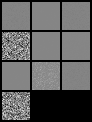
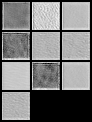
Update .gitignore to include 3dd.pt; add FID score calculation and noise processing improvements in utils.py; add new experiment JSON files

diff --git a/src/tridd_models.py b/src/tridd_models.py
@@ -41,19 +41,37 @@ class TriDD(nn.Module):
         self.label_proj = nn.Linear(self.hidden_dim, self.proj)
         
         # --- Residual Block 1 ---
-        # 輸入: (B, 8, 1, 28, 28)  →  經過此 block 輸出: (B, 64, 1, 28, 28)
-        self.conv1 = nn.Conv3d(self.proj, 16, kernel_size=(1,1,1), bias=False)
-        self.conv2 = nn.Conv3d(16, 64, kernel_size=(1,1,1), bias=False)
+        # 輸入: (B, 8, 1, 28, 28)  →  輸出: (B, 64, 1, 28, 28)
+        self.conv1 = nn.Conv3d(self.proj, 16, kernel_size=(3,3,3), bias=False, padding=1)
+        self.conv2 = nn.Conv3d(16, 64, kernel_size=(3,3,3), bias=False, padding=1)
         # shortcut: 將輸入從 8 通道轉成 64 通道
-        self.shortcut1 = nn.Conv3d(self.proj, 64, kernel_size=(1,1,1), bias=False)
+        self.shortcut1 = nn.Conv3d(self.proj, 64, kernel_size=(3,3,3), bias=False, padding=1)
         
         # --- Residual Block 2 ---
-        # 輸入: (B, 64, 1, 28, 28) → 經過此 block 輸出: (B, 8, 1, 28, 28)
-        self.conv3 = nn.Conv3d(64, 32, kernel_size=(1,1,1), bias=False)
-        self.conv4 = nn.Conv3d(32, 8, kernel_size=(1,1,1), bias=False)
+        # 輸入: (B, 64, 1, 28, 28) → 輸出: (B, 8, 1, 28, 28)
+        self.conv3 = nn.Conv3d(64, 32, kernel_size=(3,3,3), bias=False, padding=1)
+        self.conv4 = nn.Conv3d(32, 8, kernel_size=(3,3,3), bias=False, padding=1)
         # shortcut: 將輸入從 64 通道轉成 8 通道
-        self.shortcut2 = nn.Conv3d(64, 8, kernel_size=(1,1,1), bias=False)
+        self.shortcut2 = nn.Conv3d(64, 8, kernel_size=(3,3,3), bias=False, padding=1)
         
+        # --- Residual Block 3 (新增) ---
+        # 輸入與輸出皆為 (B, 8, 1, 28, 28)
+        self.conv6 = nn.Conv3d(8, 16, kernel_size=(3,3,3), bias=False, padding=1)
+        self.conv7 = nn.Conv3d(16, 8, kernel_size=(3,3,3), bias=False, padding=1)
+        self.shortcut3 = nn.Identity()  # 輸入與輸出通道相同，直接用 Identity
+        
+        # --- Residual Block 4 (新增) ---
+        # 同樣保持輸入與輸出皆為 (B, 8, 1, 28, 28)
+        self.conv8 = nn.Conv3d(8, 16, kernel_size=(3,3,3), bias=False, padding=1)
+        self.conv9 = nn.Conv3d(16, 8, kernel_size=(3,3,3), bias=False, padding=1)
+        self.shortcut4 = nn.Identity()
+        
+        # --- Residual Block 5 (新增) ---
+        # 同樣保持輸入與輸出皆為 (B, 8, 1, 28, 28)
+        self.conv10 = nn.Conv3d(8, 16, kernel_size=(3,3,3), bias=False, padding=1)
+        self.conv11 = nn.Conv3d(16, 8, kernel_size=(3,3,3), bias=False, padding=1)
+        self.shortcut5 = nn.Identity()
+
         # --- 最後一層卷積 ---
         # 將通道從 8 轉為 1，輸出最終影像 (B, 1, 1, 28, 28)
         self.conv5 = nn.Conv3d(8, 1, kernel_size=(1,1,1), bias=False)
@@ -61,12 +79,20 @@ class TriDD(nn.Module):
     def forward(self, noise, label):
         """
         noise: Tensor, shape (B, 1, 28, 28)
-        label: Tensor, shape (B, label_dim)
+        label: Tensor, shape (B,) 或 (B, ) 代表標籤索引
         """
         # 1. 由 label 產生條件特徵
-        label = F.one_hot(label, num_classes=self.label_dim)  # (B, label_dim)
-        label_emb_feature = self.label_emb(label)              # (B, label_dim, hidden_dim)
-        label_emb_feature = self.label_comp(label_emb_feature).squeeze(1)  # (B, hidden_dim)
+        # 注意：若 label 為索引，請直接傳入 Embedding 層，不需 one_hot
+        # 若原本 label 為 one_hot 可先轉換為索引再使用
+        label = label.long()  # 確保是整數型態
+        label_emb_feature = self.label_emb(label)              # (B, hidden_dim)
+        # 將 one_hot 轉換成與 Conv1d 相容的 shape：先轉換成 (B, label_dim) 再展開
+        # 為此，我們先取得 one_hot 表示，再用 conv1d 處理（這裡假設需要該步驟）
+        label_onehot = F.one_hot(label, num_classes=self.label_dim).float()  # (B, label_dim)
+        # 將 one_hot 維度調整為 (B, label_dim, 1)
+        label_onehot = label_onehot.unsqueeze(-1)
+        label_comp_feature = self.label_comp(label_onehot).squeeze(1)  # (B, 1)
+        # 這裡可以將 Embedding 與 label_comp_feature 作結合，或僅使用 Embedding
         label_feature = self.label_mlp(label_emb_feature)        # (B, hidden_dim)
         
         # 2. 透過線性層得到投射向量 (B, proj)
@@ -79,21 +105,37 @@ class TriDD(nn.Module):
         noise_projected = noise_expanded * proj_vector           # (B, proj, 1, 28, 28)，proj=8
         
         # --- Residual Block 1 ---
-        # 主路徑：先後經過 conv1 與 conv2
         x = noise_projected                                    # (B, 8, 1, 28, 28)
-        residual = self.shortcut1(x)                           # (B, 64, 1, 28, 28)
+        residual1 = self.shortcut1(x)                          # (B, 64, 1, 28, 28)
         out = F.relu(self.conv1(x))                            # (B, 16, 1, 28, 28)
         out = self.conv2(out)                                  # (B, 64, 1, 28, 28)
-        out = F.relu(out + residual)                           # Residual connection
+        out = F.relu(out + residual1)                          # (B, 64, 1, 28, 28)
         temp_out = out[:, -1, :, :, :]                         # (B, 1, 28, 28)
         
         # --- Residual Block 2 ---
-        # 主路徑：經過 conv3 與 conv4
-        residual = self.shortcut2(out)                         # (B, 8, 1, 28, 28)
+        residual2 = self.shortcut2(out)                        # (B, 8, 1, 28, 28)
         out_block2 = F.relu(self.conv3(out))                   # (B, 32, 1, 28, 28)
         out_block2 = self.conv4(out_block2)                    # (B, 8, 1, 28, 28)
-        out = F.relu(out_block2 + residual)                    # Residual connection
+        out = F.relu(out_block2 + residual2)                   # (B, 8, 1, 28, 28)
         
+        # --- Residual Block 3 (新增) ---
+        residual3 = self.shortcut3(out)                        # (B, 8, 1, 28, 28)
+        out_block3 = F.relu(self.conv6(out))                   # (B, 16, 1, 28, 28)
+        out_block3 = self.conv7(out_block3)                    # (B, 8, 1, 28, 28)
+        out = F.relu(out_block3 + residual3)                   # (B, 8, 1, 28, 28)
+        
+        # --- Residual Block 4 (新增) ---
+        residual4 = self.shortcut4(out)                        # (B, 8, 1, 28, 28)
+        out_block4 = F.relu(self.conv8(out))                   # (B, 16, 1, 28, 28)
+        out_block4 = self.conv9(out_block4)                    # (B, 8, 1, 28, 28)
+        out = F.relu(out_block4 + residual4)                   # (B, 8, 1, 28, 28)
+        
+        # --- Residual Block 5 (新增) ---
+        residual5 = self.shortcut5(out)                        # (B, 8, 1, 28, 28)
+        out_block5 = F.relu(self.conv10(out))                  # (B, 16, 1, 28, 28)
+        out_block5 = self.conv11(out_block5)                   # (B, 8, 1, 28, 28)
+        out = F.relu(out_block5 + residual5)                  # (B, 8, 1, 28, 28)
+
         # --- 最後一層卷積 ---
         out = self.conv5(out)                                  # (B, 1, 1, 28, 28)
         out = out.squeeze(1)                                   # 調整形狀為 (B, 1, 28, 28)

diff --git a/src/main.py b/src/main.py
@@ -7,7 +7,7 @@ import numpy as np
 
 from tqdm import tqdm
 from torchvision.utils import save_image, make_grid
-from torch.optim import Adam
+from torch.optim import Adam, AdamW
 from datetime import datetime
 
 import math
@@ -19,7 +19,7 @@ from torch.utils.data import DataLoader
 from models import SinusoidalPosEmb, ConvBlock, Denoiser, Diffusion
 from timm.models.ghostnet import ghostnet_050
 from tridd_models import TriDD
-from utils import add_noise_process
+from utils import add_noise_process,fid_score_torch
 
 # Model Hyperparameters
 
@@ -31,14 +31,15 @@ DEVICE = torch.device("cuda:0" if cuda else "cpu")
 dataset = 'MNIST'
 img_size = (32, 32, 3)   if dataset == "CIFAR10" else (28, 28, 1) # (width, height, channels)
 
-train_batch_size = 128
-inference_batch_size = 64
+train_batch_size = 4096
+inference_batch_size = 1024
 test_batch_size = 10
-lr = 5e-5
-epochs = 5
+lr = 5e-4
+epochs = 25
+gt_weight = 1.1
 
 label_dim = 10
-triddm_proj = 10
+triddm_proj = 32
 classes = 10
 
 seed = 1234
@@ -74,7 +75,9 @@ model = TriDD(
     proj=triddm_proj,
 ).to(DEVICE)
 
-optimizer = Adam(model.parameters(), lr=lr)
+# optimizer = Adam(model.parameters(), lr=lr)
+# optimizer = Adam(model.parameters(), lr=lr, betas=(0.9, 0.999), eps=1e-08, weight_decay=0.01)
+optimizer = AdamW(model.parameters(), lr=lr, betas=(0.9, 0.999), eps=1e-08, weight_decay=0.01)
 label_sim_loss = nn.CrossEntropyLoss()
 denoising_loss = nn.MSELoss()
 
@@ -89,21 +92,40 @@ model.train()
 
 rec_loss = []
 rec_acc = []
+noise_img = {
+    "t1000": [],
+    "t500": [],
+    "t0": [],
+    "out": [],
+}
+add_cnt = []
 for epoch in range(epochs):
     noise_prediction_loss = 0
     acc = 0
+    test_noise_prediction_loss = 0
+    test_acc = 0
+
+    # train
+    model.train()
     for batch_idx, (x, y) in tqdm(enumerate(train_loader), total=len(train_loader)):
         optimizer.zero_grad()
 
         y = y.to(DEVICE)
         noise_stack = add_noise_process(x)
+        if epoch not in add_cnt:
+            noise_img["t1000"].append(noise_stack[0, 0])
+            noise_img["t500"].append(noise_stack[0, 1])
+            noise_img["t0"].append(noise_stack[0, 2])
         noise = noise_stack[:, 0].to(DEVICE)# t=1000
         noise_hid = noise_stack[:, 1].to(DEVICE)# t=500
         original = noise_stack[:, 2].to(DEVICE)# t=0
         out_hid, out = model(noise, y)# generated image
-
+        if epoch not in add_cnt:
+            # print(f"Save epoch {epoch} noise images")
+            noise_img["out"].append(out[0])
+            add_cnt.append(epoch)
         # denoising loss
-        deno_loss = denoising_loss(out_hid, noise_hid) + denoising_loss(out, original)
+        deno_loss = denoising_loss(out_hid, noise_hid) + gt_weight * denoising_loss(out, original)
 
         # discriminator loss
         pred = discriminator(out)
@@ -120,9 +142,34 @@ for epoch in range(epochs):
         acc += (pred == y).sum().item()
         batch_size = x.size(0)
         acc /= batch_size
+
     rec_acc.append(acc)
     rec_loss.append(noise_prediction_loss / batch_idx)
     print(f"Epoch {epoch+1}/{epochs} complete! Denoising Loss: {noise_prediction_loss / batch_idx:.4f}, Accuracy: {acc:.4f}")
+
+    # test
+    model.eval()
+    for batch_idx, (x, y) in tqdm(enumerate(test_loader), total=len(test_loader)):
+        y = y.to(DEVICE)
+        noise_stack = add_noise_process(x)
+        noise = noise_stack[:, 0].to(DEVICE)
+        noise_hid = noise_stack[:, 1].to(DEVICE)
+        original = noise_stack[:, 2].to(DEVICE)
+        out_hid, out = model(noise, y)
+        # denoising loss
+        deno_loss = denoising_loss(out_hid, noise_hid) + gt_weight * denoising_loss(out, original)
+        # discriminator loss
+        pred = discriminator(out)
+        label_loss = label_sim_loss(pred, y)
+        loss = deno_loss + label_loss
+        test_noise_prediction_loss += loss.item()
+        # calculate accuracy
+        pred = torch.argmax(pred, dim=1)
+        test_acc += (pred == y).sum().item()
+        batch_size = x.size(0)
+        test_acc /= batch_size
+
+    print(f"Test complete! Test Denoising Loss: {test_noise_prediction_loss / batch_idx:.4f}, Test Accuracy: {test_acc:.4f}")
 
 print("Finish!!")
 
@@ -142,6 +189,7 @@ exp_data = {
     'label_dim': label_dim,
     'triddm_proj': triddm_proj,
     'classes': classes,
+    'gt_weight': gt_weight,
 }
 
 # save the experiment data in json
@@ -165,3 +213,11 @@ with torch.no_grad():
     out = make_grid(out, nrow=nrow, normalize=True)
     # save the image
     save_image(out, 'generated_images.png')
+
+# save the noise images
+for key in noise_img.keys():
+    noise_img[key] = torch.stack(noise_img[key])
+    print(f"noise_img[{key}].shape: {noise_img[key].shape}")
+    nrow = int(math.sqrt(noise_img[key].shape[0]))
+    out = make_grid(noise_img[key], nrow=nrow, normalize=True)
+    save_image(out, f'noise_{key}.png')

diff --git a/src/utils.py b/src/utils.py
@@ -1,4 +1,6 @@
 import torch
+import math
+import numpy as np
 
 def add_noise_process(x):
     """
@@ -15,7 +17,7 @@ def add_noise_process(x):
     device = x.device
     dtype = x.dtype
     out = []
-    for t in [1000, 500, 0]:
+    for t in [1000, 8, 0]:
         # 計算噪聲強度比例 s (t=0: 無噪聲, t=1000: 全噪聲)
         s = t / 1000.0
         # 混合係數：sqrt(1-s) 用於原圖，sqrt(s) 用於噪聲
@@ -29,10 +31,58 @@ def add_noise_process(x):
     # 將三個結果沿著新維度堆疊，得到形狀 (B, 3, ch, W, H)
     return torch.stack(out, dim=1)
 
+def torch_cov(x: torch.Tensor) -> torch.Tensor:
+    """
+    使用 PyTorch 計算協方差矩陣，假設 x 的形狀為 (n, d)，其中 n 為樣本數，d 為特徵數。
+    """
+    n = x.size(0)
+    mean = torch.mean(x, dim=0, keepdim=True)
+    x_centered = x - mean
+    return (x_centered.t() @ x_centered) / (n - 1)
+
+def fid_score_torch(x: torch.Tensor, y: torch.Tensor) -> float:
+    # 將 x 與 y 攤平成 (B, features)
+    x_flat = x.view(x.size(0), -1)
+    y_flat = y.view(y.size(0), -1)
+    
+    # 計算均值
+    mu_x = torch.mean(x_flat, dim=0)
+    mu_y = torch.mean(y_flat, dim=0)
+    
+    # 使用純 PyTorch 計算協方差矩陣
+    sigma_x = torch_cov(x_flat)
+    sigma_y = torch_cov(y_flat)
+    
+    # 加入小正則項防止數值不穩定
+    eps = 1e-6
+    device = x.device
+    sigma_x = sigma_x + eps * torch.eye(sigma_x.size(0), device=device)
+    sigma_y = sigma_y + eps * torch.eye(sigma_y.size(0), device=device)
+    
+    # 均值差的平方
+    diff = mu_x - mu_y
+    diff_sq = torch.dot(diff, diff)
+    
+    # 利用 eigen decomposition 計算 sigma_x 的矩陣平方根
+    eigvals_x, eigvecs_x = torch.linalg.eigh(sigma_x)
+    sqrt_sigma_x = eigvecs_x @ torch.diag(torch.sqrt(torch.clamp(eigvals_x, min=0))) @ eigvecs_x.t()
+    
+    # 計算中間矩陣 A = sqrt_sigma_x * sigma_y * sqrt_sigma_x
+    A = sqrt_sigma_x @ sigma_y @ sqrt_sigma_x
+    eigvals_A, _ = torch.linalg.eigh(A)
+    sqrt_trace = torch.sum(torch.sqrt(torch.clamp(eigvals_A, min=0)))
+    
+    fid = diff_sq + torch.trace(sigma_x) + torch.trace(sigma_y) - 2 * sqrt_trace
+    return fid.item()
+
 if __name__ == "__main__":
-    test_x = torch.randn(2, 3, 28, 28)
-    out = add_noise_process(test_x)
-    print(out.shape)  # 應該是 (2, 3, 3, 28, 28)
-    print(out[0, 0].shape)  # 應該是 (3, 28, 28)
-    print(out[0, 1].shape)  # 應該是 (3, 28, 28)
-    print(out[0, 2].shape)  # 應該是 (3, 28, 28)
+    # test_x = torch.randn(2, 3, 28, 28)
+    # out = add_noise_process(test_x)
+    # print(out.shape)  # 應該是 (2, 3, 3, 28, 28)
+    # print(out[0, 0].shape)  # 應該是 (3, 28, 28)
+    # print(out[0, 1].shape)  # 應該是 (3, 28, 28)
+    # print(out[0, 2].shape)  # 應該是 (3, 28, 28)
+    test_x = torch.randn(2, 3, 28, 28).to('cuda')
+    test_y = torch.randn(2, 3, 28, 28).to('cuda')
+    fid_score = fid_score_torch(test_x, test_y)
+    print(fid_score)
